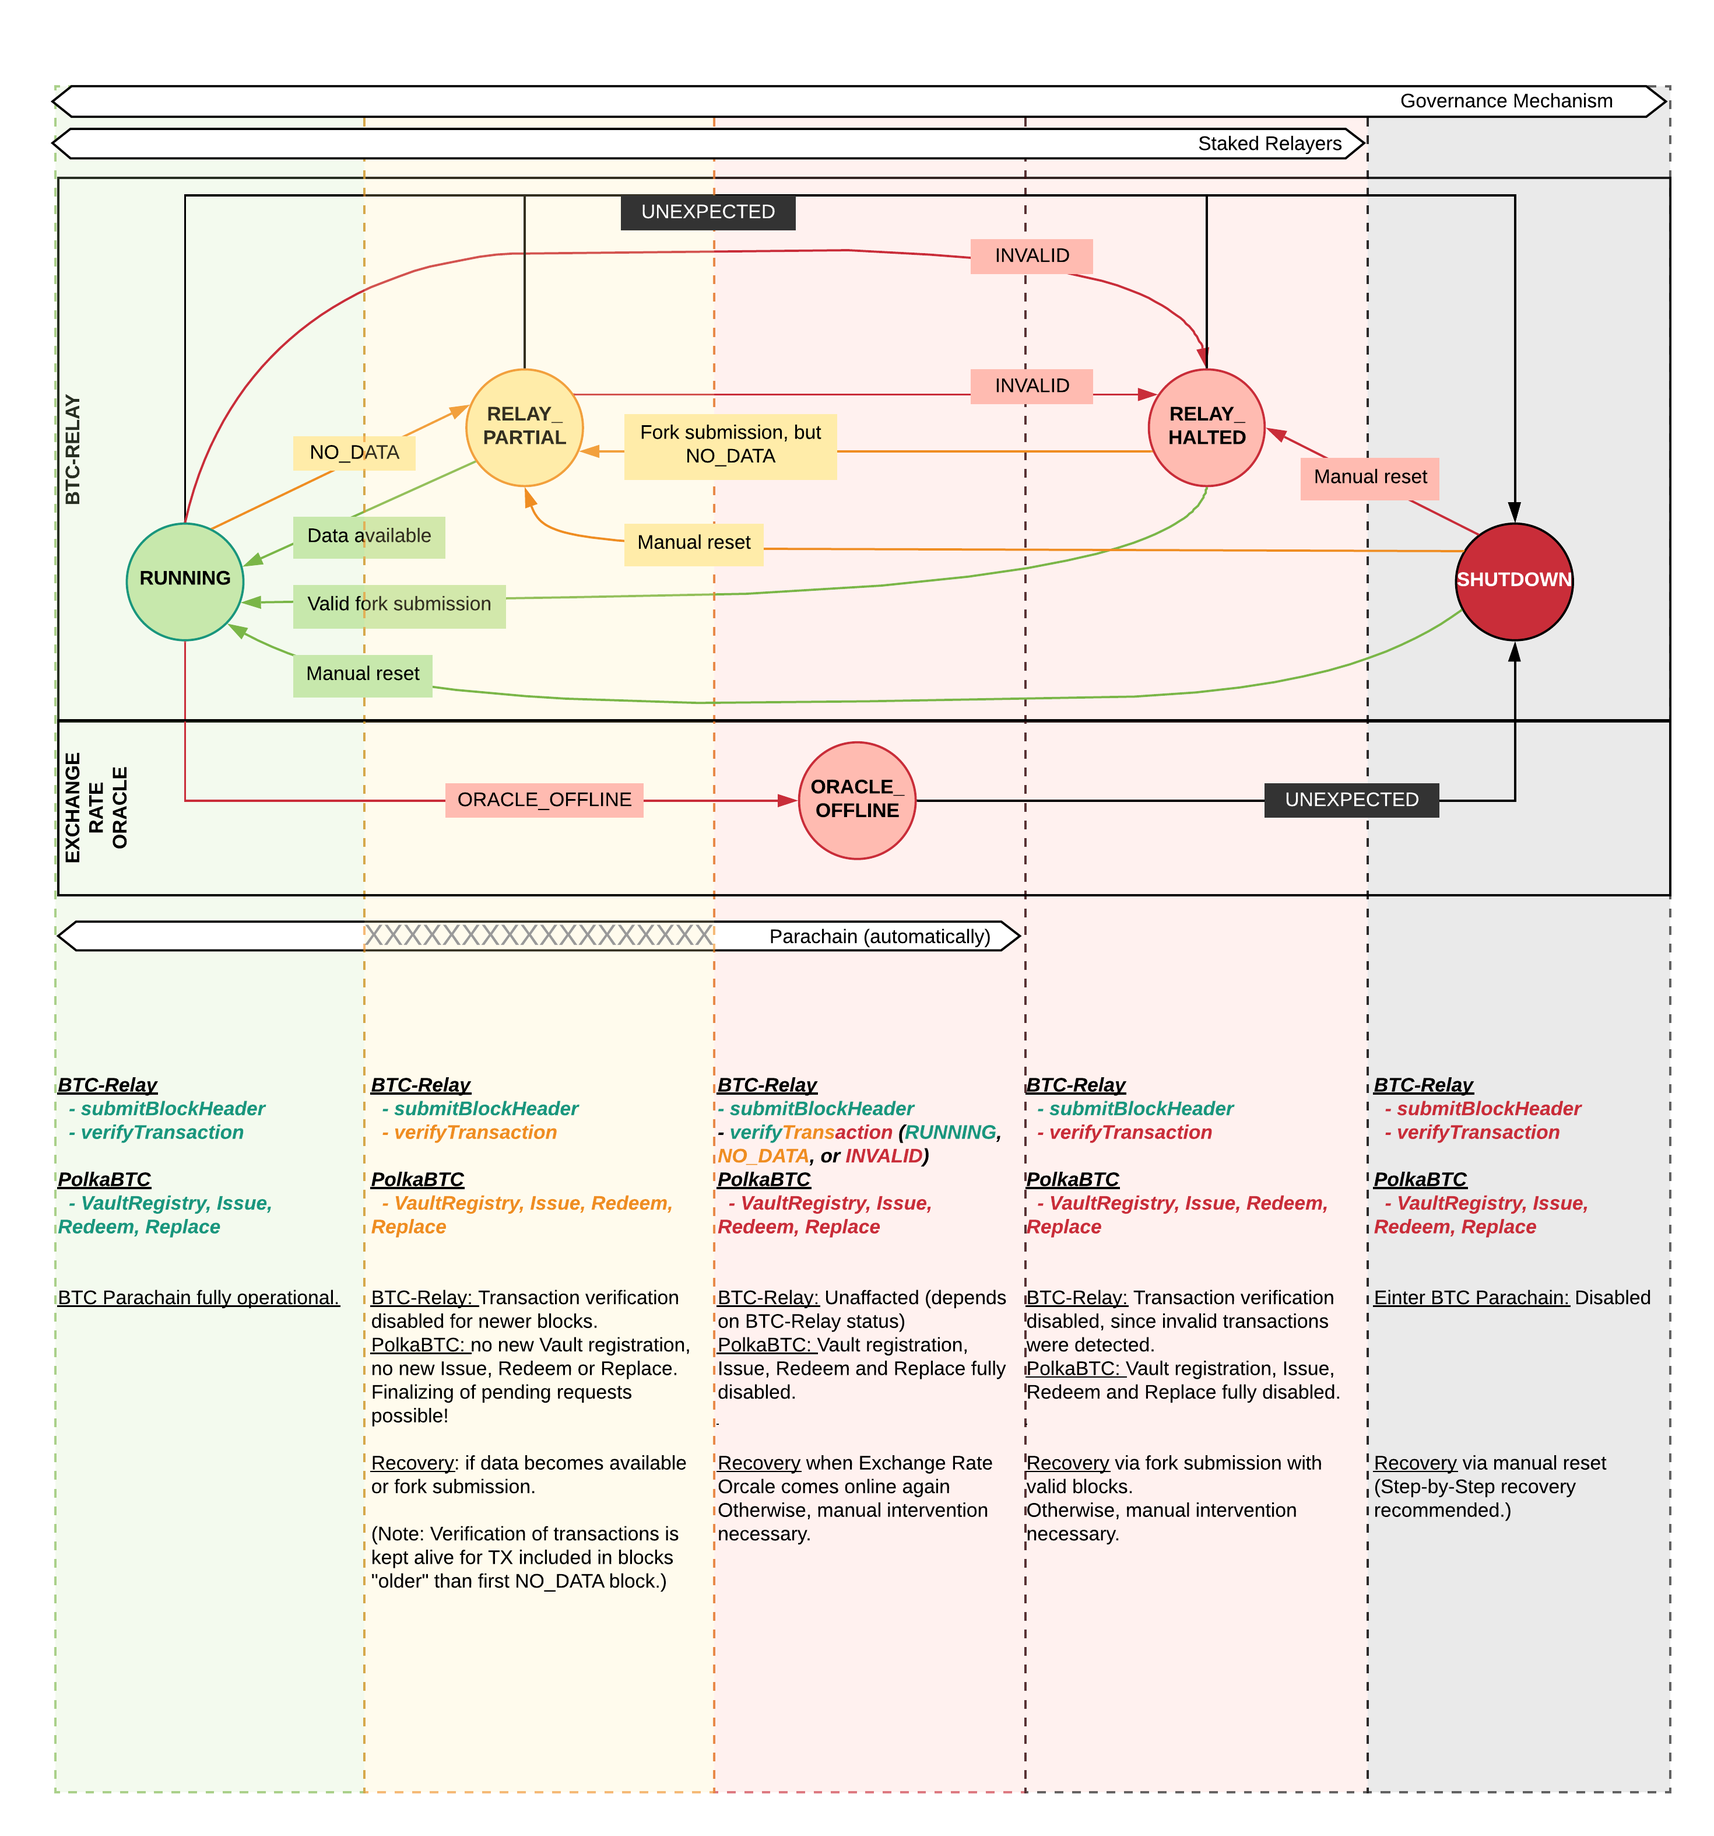
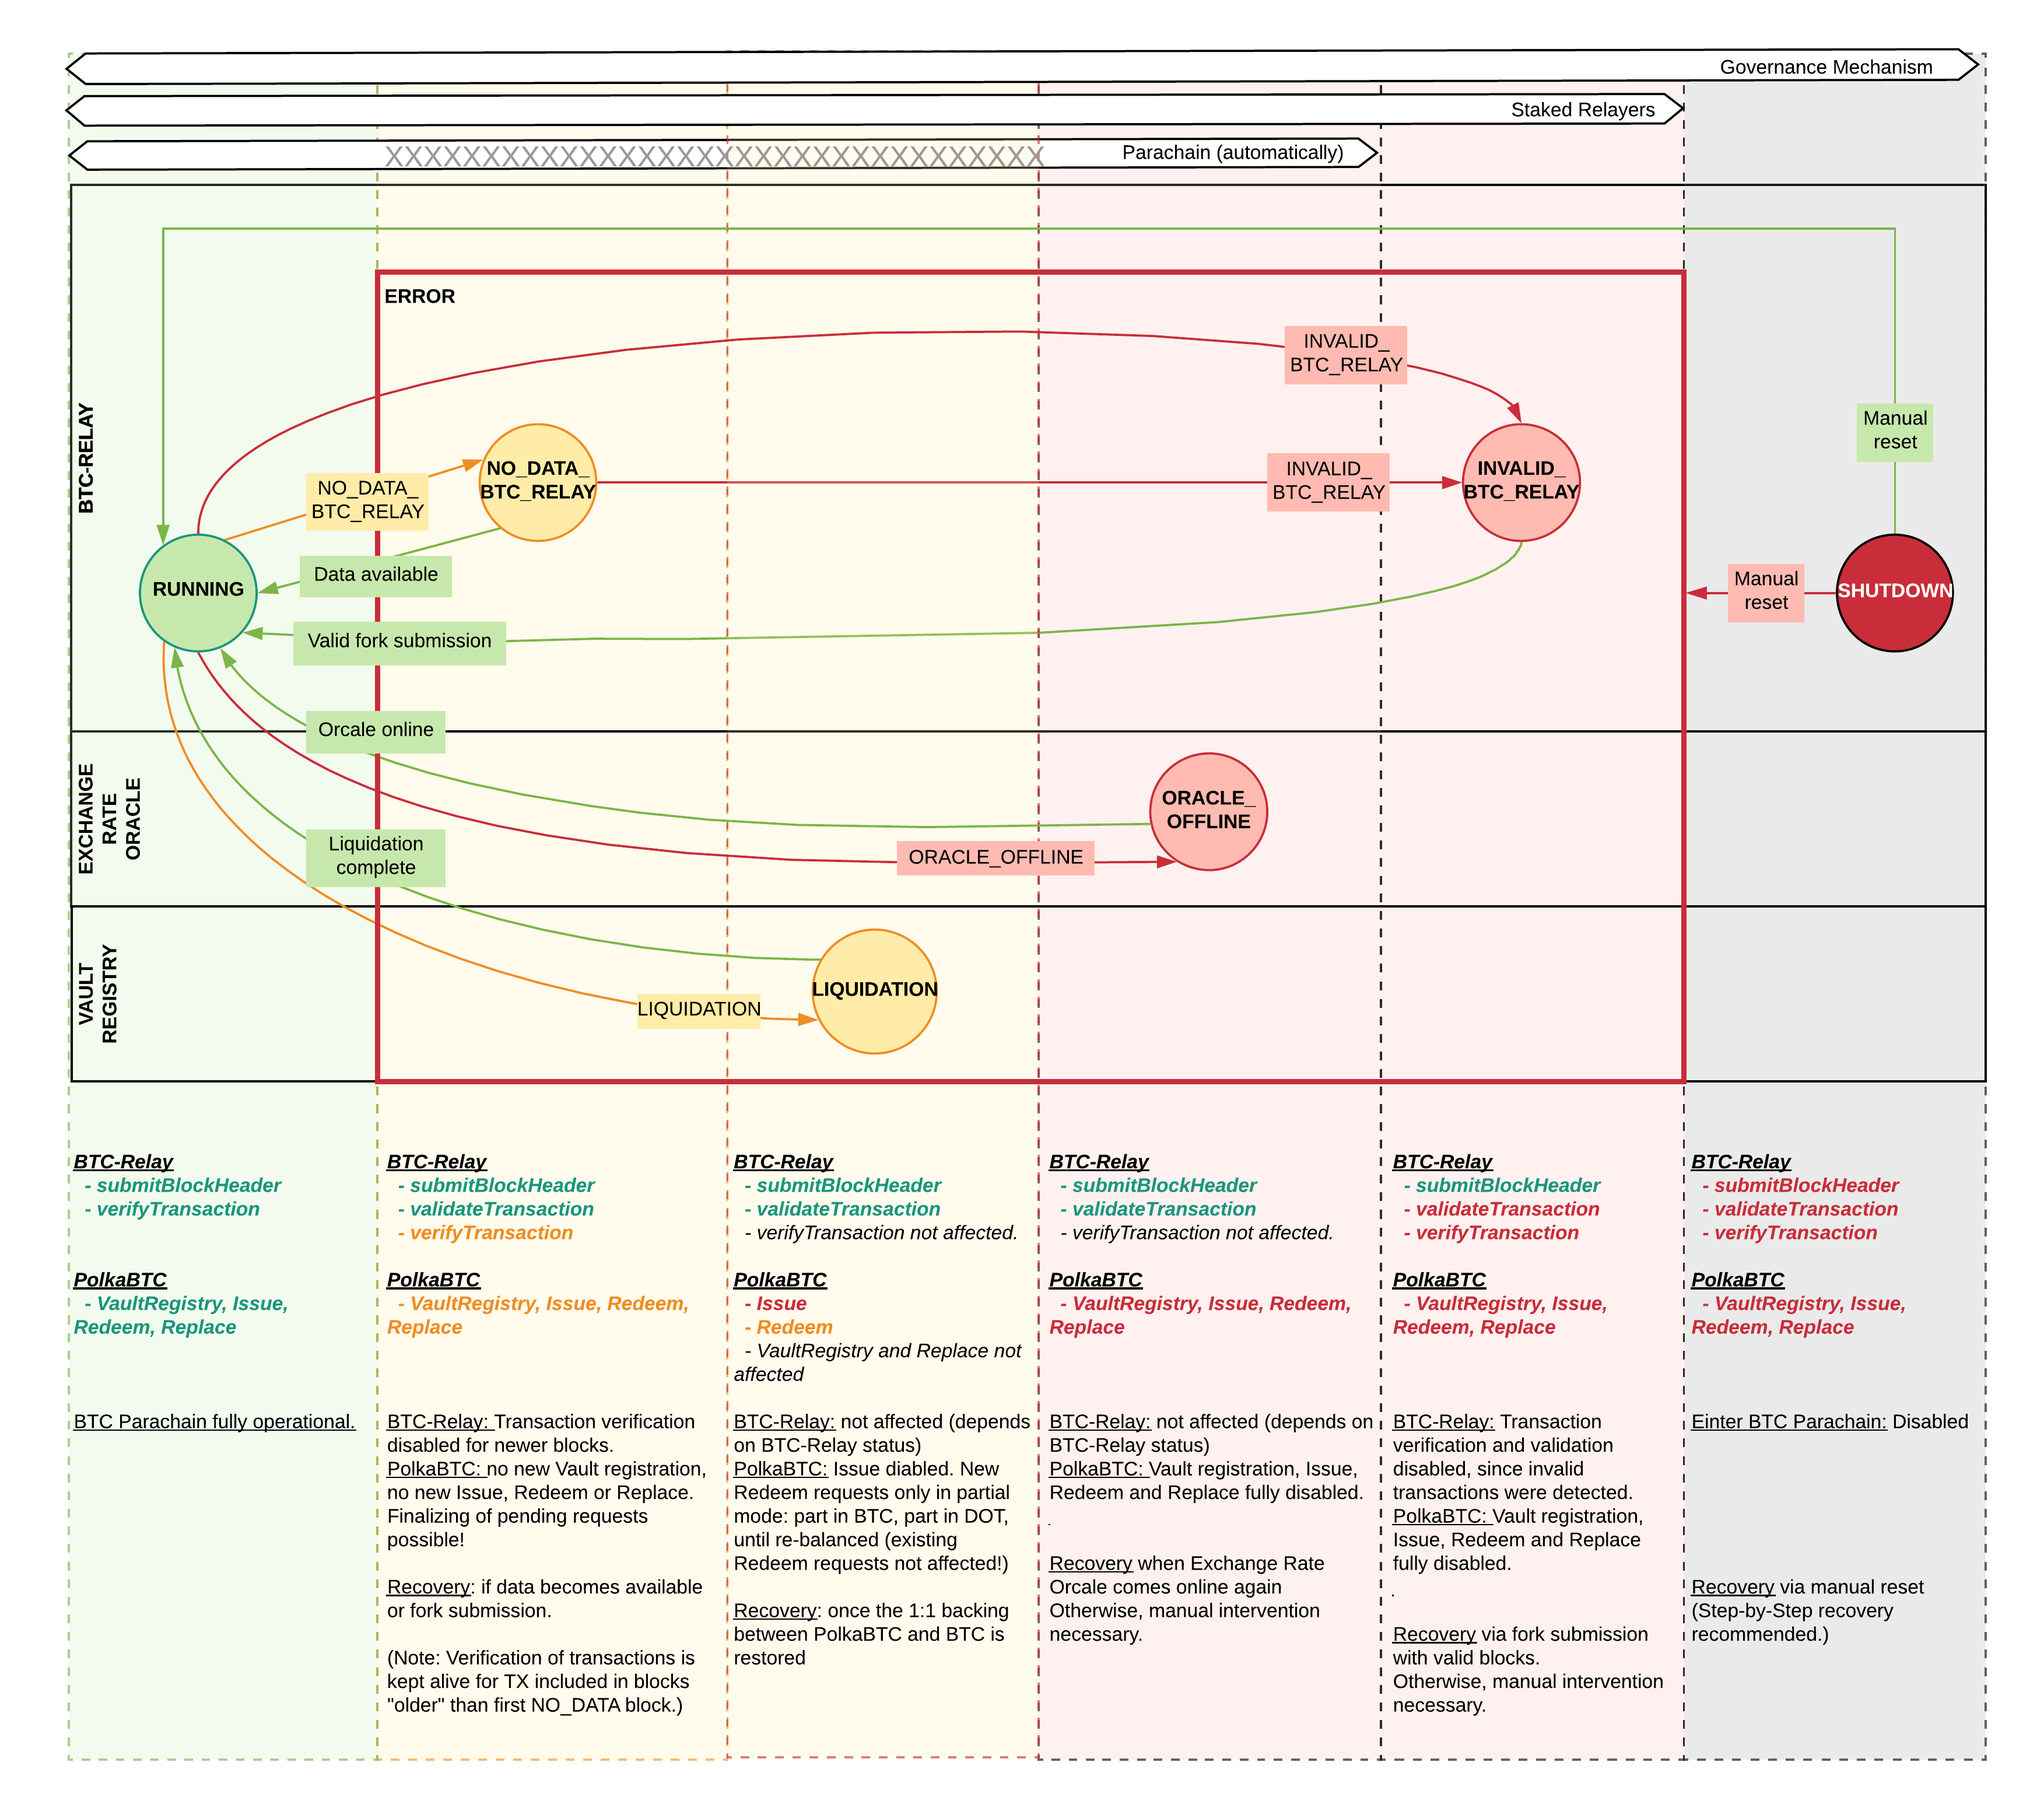
Updated error states. added reportVaultUndercollateralized. Added comments to issue

diff --git a/polkabtc-spec/docs/source/spec/security.rst b/polkabtc-spec/docs/source/spec/security.rst
@@ -20,7 +20,7 @@ An overview is provided in the figure below.
 .. figure:: ../figures/failureModes.png
     :alt: State machine showing BTC-Relay failure modes
 
-    State machine showing the operational and failure modes of BTC-Relay, and how to recover from or flag failures.
+    (Informal) State machine showing the operational and failure modes of BTC-Relay, and how to recover from or flag failures. Note: within the ``ERROR`` state, ``ErrorCode`` states are only exclusive within a single module (i.e., BTC-Relay ``NO_DATA_BTC_RELAY`` and ``INVALID_BTC_RELAY`` are exclusive, but there can be an ``ORACLE_OFFLINE`` or ``LIQUIDATION`` error in parallel).
 
 
 More details on the exact failure states and error codes are provided in the Specification part of this module description.
@@ -810,28 +810,46 @@ In all other cases, the Vault is considered to have stolen the BTC.
 
 This function checks if the Vault actually misbehaved (i.e., makes sure that the provided transaction is not one of the above valid cases) and automatically liquidates the Vault (i.e., triggers :ref:`redeem`).
 
-.. todo:: What do we do if we detect theft? Who redeems? An option is to halt the Parachain and ask users to redeem - thereby exchanging PolkaBTC against DOT at a beneficial rate. Or, we slash the Vault and the Governance Mechanism acquires new BTC using the slashed collateral and locks it with a new Vault, to balance the system.
 
-.. note:: A possible idea is to wait until a Vault has no more pending Redeem or Replace requests (either failed or successful). Avoids Staked Relayers submitting valid transactions as fraud proofs and simplifies verification effort on the development side.
+Function Sequence
+.................
 
 .. todo:: TODO
+
+1. Parse tx, checking OP_RETURN or all same Vault output.
+
+
+2. If OP_RETURN ok, check identifier against existing Replace and Redeem requests with of this Vault. Return false accusation error if found.
+
+3. The Vault misbehaved and must be slashed:
+
+    a) add ``vault`` to the ``LiquidationList`` in :ref:`vault-registry`,
+
+    b) set ``ParachainStatus = ERROR`` and add ``LIQUIDATION`` to ``Errors``,
+
+    c) emit ``ExecuteStatusUpdate(ParachainStatus, Errors,`` ``"Vault 'vault' displaced BTC and is being liquidated")``
+  
+5. Return
+
+.. _reportVaultUndercollateralized:
+
+reportVaultUndercollateralized
+-------------------------------
+
+A Staked Relayer reports that a Vault is undercollateralized, i.e., below the ``LiquidationCollateralRate`` as defined in :ref:`vault-registry`. This function checks if the Vault's collateral is indeed below this rate and if yes, flags the Vault for liquidation and updates the ``ParachainStatus`` to ``ERROR`` and adding ``LIQUIDATION`` to ``Errors``.
+
 
 Specification
 .............
 
 *Function Signature*
 
-``reportVaultTheft(vault, txId, txBlockHeight, txIndex, merkleProof, rawTx)``
+``reportVaultUndercollateralized(vault)``
 
 
 *Parameters*
 
 * ``vault``: the account of the accused Vault.
-* ``txId``: The hash of the Bitcoin transaction.
-* ``txBlockHeight``: Bitcoin block height at which the transaction is supposedly included.
-* ``txIndex``: Index of transaction in the Bitcoin block’s transaction Merkle tree.
-* ``merkleProof``: Merkle tree path (concatenated LE SHA256 hashes).
-* ``rawTx``: Raw Bitcoin transaction including the transaction inputs and outputs.
 
 
 *Returns*
@@ -840,29 +858,36 @@ Specification
 
 *Events*
 
+* ``ExecuteStatusUpdate(newStatusCode, errors, msg)`` - emits an event indicating the status change, with ``newStatusCode`` being the new ``StatusCode``, ``errors`` the set of ``ErrorCode`` entries specifying the reason for the status change if ``StatusCode == ERROR``, and ``msg`` the detailed reason for the status update. 
+
 *Errors*
 
 * ``ERR_STAKED_RELAYERS_ONLY = "This action can only be executed by Staked Relayers"``: The caller of this function was not a Staked Relayer. Only Staked Relayers are allowed to suggest and vote on BTC Parachain status updates.
-
+* ``ERR_COLLATERAL_OK = "The accused Vault's collateral rate is above the liquidation threshold"``: The accused Vault's collateral rate is  above ``LiquidationCollateralRate``.
+* ``ERR_UNKNOWN_VAULT``: The specified Vault does not exist. 
 
 *Substrate* ::
 
-  fn reportVaultTheft(vault: AccountId, txId: T::H256, txBlockHeight: U256, txIndex: u64, merkleProof: Bytes, rawTx: Bytes) -> T::H256 {...}
+  fn reportVaultUndercollateralized(vault: AccountId) -> T::H256 {...}
 
 Function Sequence
 .................
 
 1. Check that the caller of this function is indeed a Staked Relayer. Return ``ERR_STAKED_RELAYERS_ONLY`` if this check fails.
 
-2. Call *verifyTransaction* in :ref:`btc-relay` passing ``txId``, ``txBlockHeight``, ``txIndex``, and ``merkleProof`` as parameters. If this call returns an error, abort and return the error.
+2. Retrieve the Vault from ``Vaults`` in :ref:`vault-registry` using ``vault``. Return ``ERR_UNKNOWN_VAULT`` if there is no Vault with the specified account identifier.
 
+3. Check if the Vault's collateralization rate is below ``LiquidationCollateralRate`` as defined in :ref:`vault-registry`.  That is, check ``Vault.collateral`` against ``Vault.issuedTokens``. If the Vault's collateral rate is above ``LiquidationCollateralRate``, return ``ERR_COLLATERAL_OK``
 
-.. todo:: TODO: decide how to best handle this.
+4. Otherwise, if the Vault is undercollateralized:
 
-3. Try to parse the ``rawTx`` expecting the transaction format as defined in :ref:`btc-relay`. 
+    a) add ``vault`` to the ``LiquidationList`` in :ref:`vault-registry`,
 
-  a. [Optional]: also accept transactions, which match the format for point (3) above, i.e., all outputs have the same (accused) Vault as recipient.
+    b) set ``ParachainStatus = ERROR`` and add ``LIQUIDATION`` to ``Errors``,
 
+    c) emit ``ExecuteStatusUpdate(ParachainStatus, Errors,`` ``"Undercollateralized Vault 'vault' is being liquidated")``
+  
+5. Return
 
 .. _generateSecureId:
 

diff --git a/polkabtc-spec/docs/source/spec/vaultregistry.rst b/polkabtc-spec/docs/source/spec/vaultregistry.rst
@@ -318,7 +318,7 @@ Specification
 
 *Errors*
 
-* ``ERR_UNKOWN_VAULT``: The specified Vault does not exist. 
+* ``ERR_UNKNOWN_VAULT``: The specified Vault does not exist. 
 
 *Substrate* ::
 
@@ -335,7 +335,7 @@ Function Sequence
 
 1) Retrieve the ``Vault`` from ``Vaults`` with the specified AccoundId (``vault``).
 
-  a) Raise ``ERR_UNKOWN_VAULT`` error if no such ``vault`` entry exists in ``Vaults``.
+  a) Raise ``ERR_UNKNOWN_VAULT`` error if no such ``vault`` entry exists in ``Vaults``.
 
 2) Increase the ``collateral`` of the ``Vault``. 
 
@@ -369,7 +369,7 @@ Specification
 
 *Errors*
 
-* ``ERR_UNKOWN_VAULT``: The specified Vault does not exist. 
+* ``ERR_UNKNOWN_VAULT``: The specified Vault does not exist. 
 * ``ERR_INSUFFICIENT_FREE_COLLATERAL``: The Vault is trying to withdraw more collateral than is currently free. 
 * ``ERR_MIN_AMOUNT``: The amount of locked collateral (free + used) needs to be above ``MinimumCollateralVault``.
 * ``ERR_UNAUTHRORIZED``: The caller of the withdrawal is not the specified Vault, and hence not authorized to withdraw funds.
@@ -390,7 +390,7 @@ Function Sequence
 
 1) Retrieve the ``Vault`` from ``Vaults`` with the specified AccoundId (``vault``).
 
-  a) Raise ``ERR_UNKOWN_VAULT`` error if no such ``vault`` entry exists in ``Vaults``.
+  a) Raise ``ERR_UNKNOWN_VAULT`` error if no such ``vault`` entry exists in ``Vaults``.
 
 2) Check that the caller of this function is indeed the specified ``Vault`` (AccoundId ``vault``). 
 

diff --git a/polkabtc-spec/docs/source/spec/issue.rst b/polkabtc-spec/docs/source/spec/issue.rst
@@ -269,6 +269,10 @@ Preconditions
 
 * The BTC Parachain status in the :ref:`security` component must be set to ``RUNNING:0``.
 
+.. todo:: REJECT any Issue request where the sender BTC address belongs to an existing Vault.
+
+
+
 Function Sequence
 .................
 
